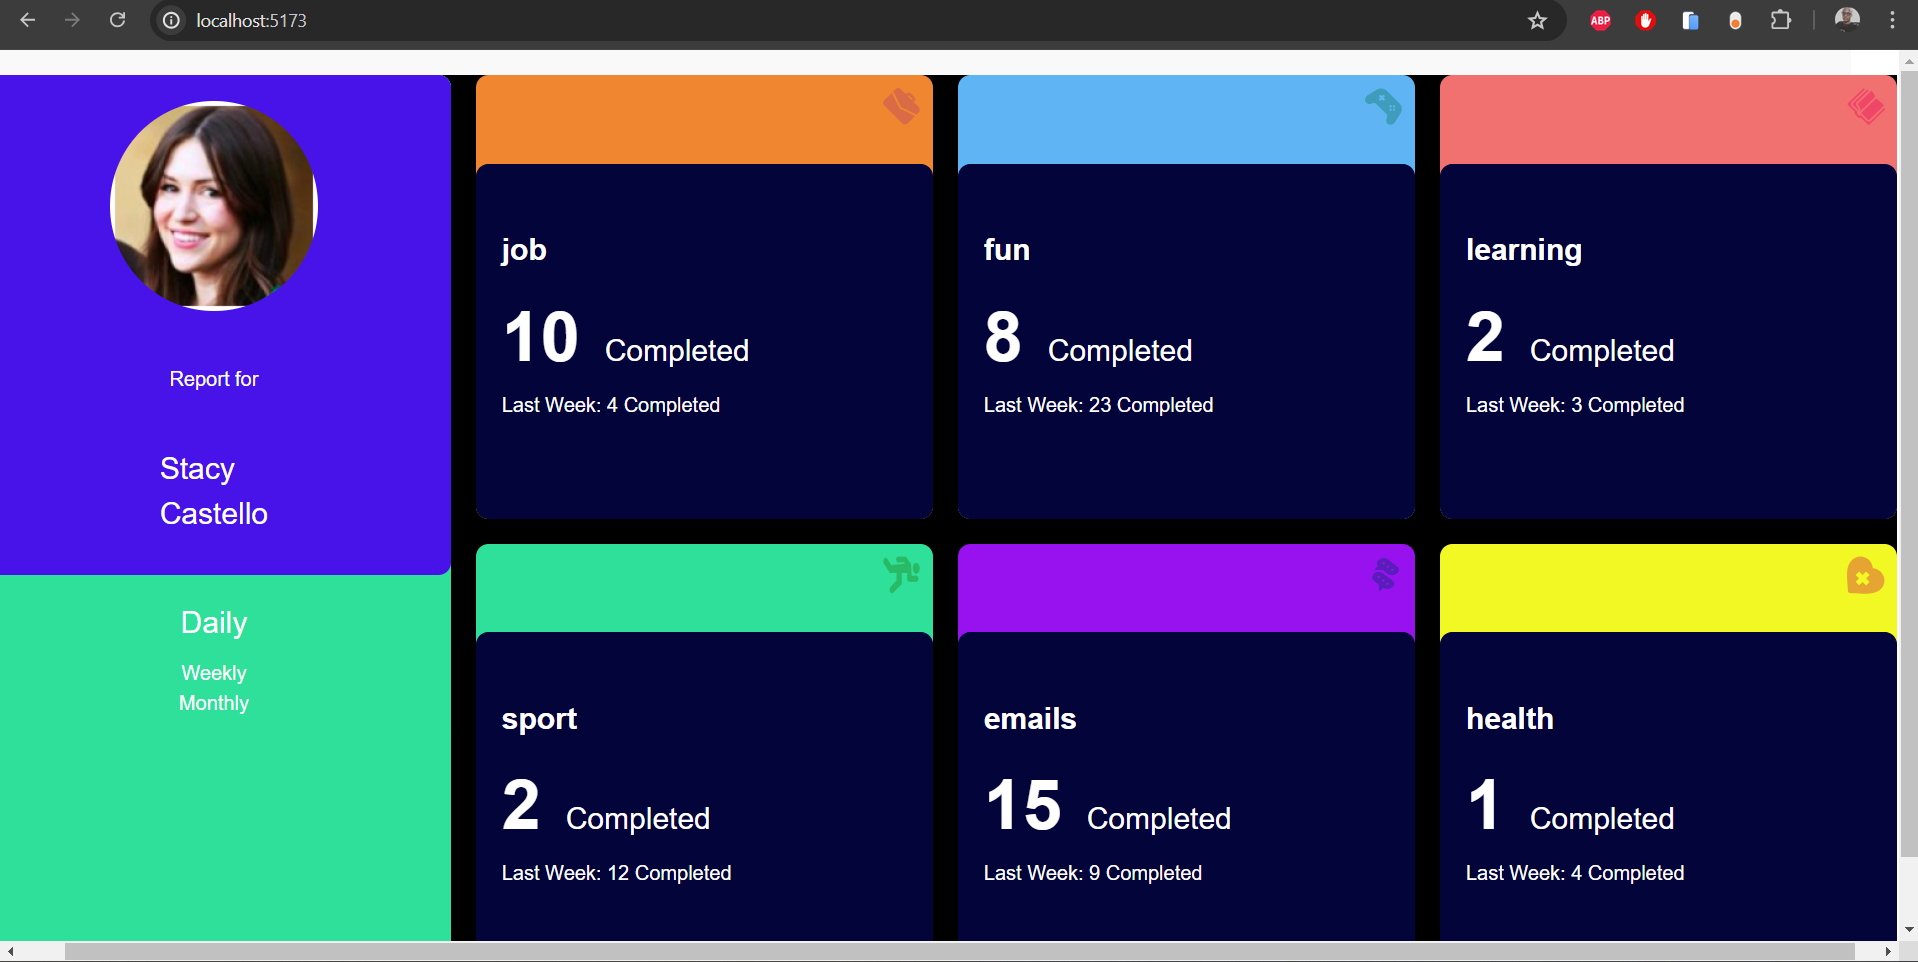
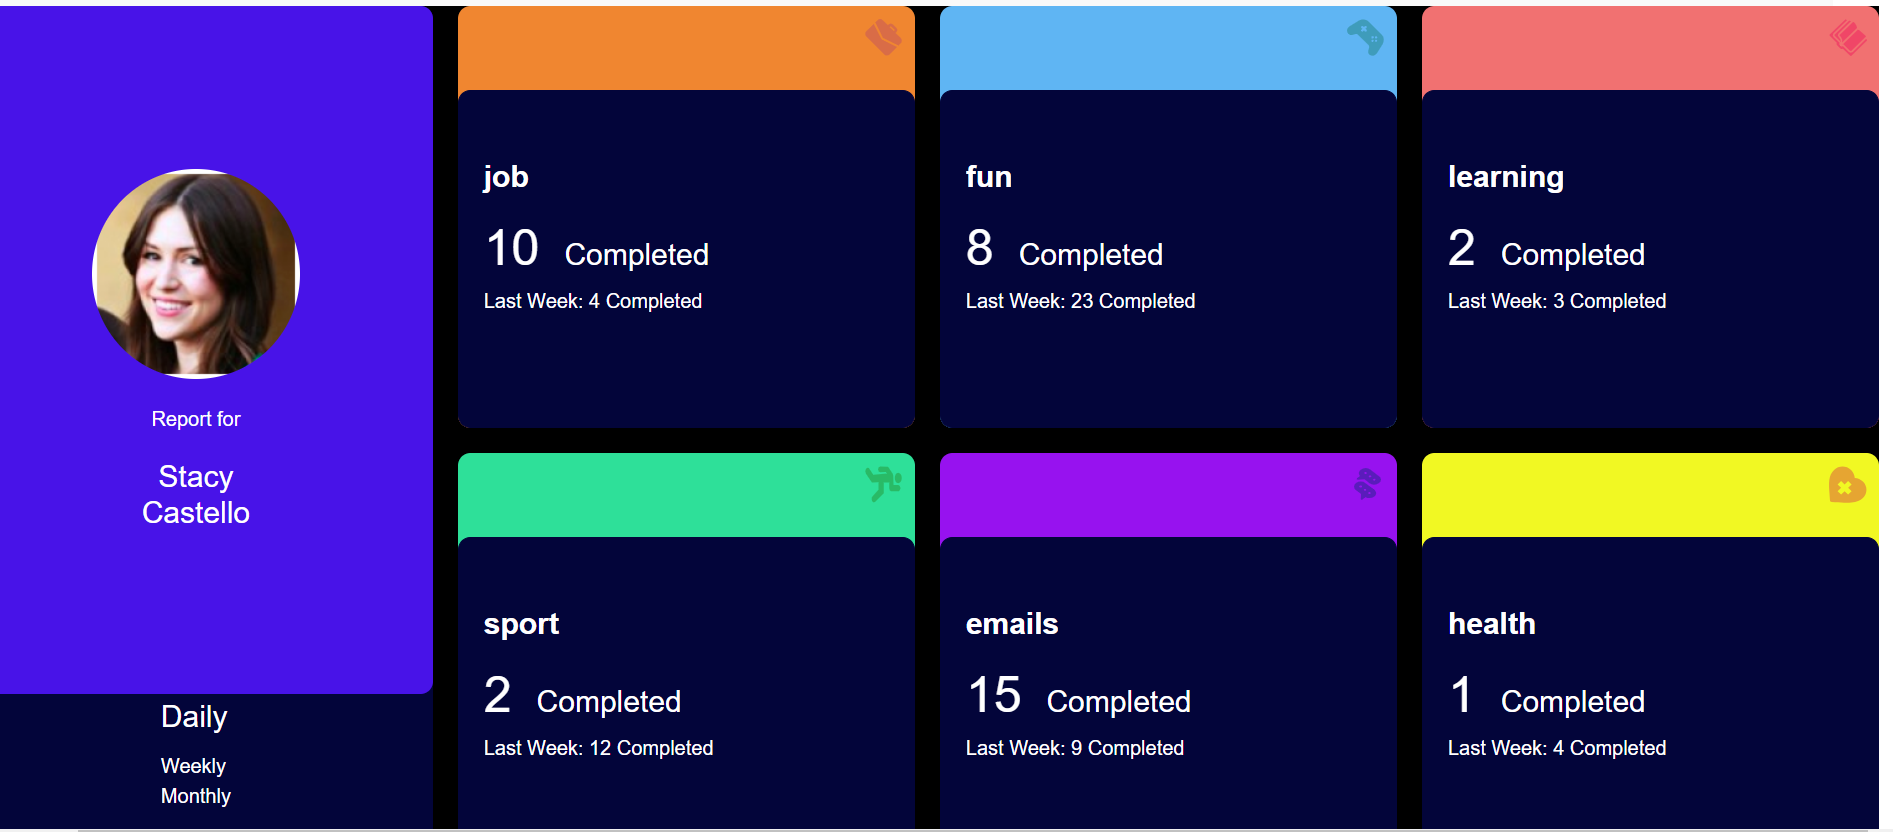
improved designs

diff --git a/miladfm-frontend-solution/src/assets/styles/partials/large.scss b/miladfm-frontend-solution/src/assets/styles/partials/large.scss
@@ -15,27 +15,43 @@
   display: grid;
   grid-template-rows: auto 1fr;
   height: 100vh;
-  background-color: $lightgreen-color;
+  background-color: $box-color;
   border-radius: 10px;
 }
 
 .profile-component {
-  display: grid;
+  display: flex;
+  flex-direction: column;
   align-items: center;
-  justify-items: center;
+  justify-content: center;
   width: 100%;
-  height: 400px;
+  height: 550px;
   background-color: $beige-color;
   border-radius: 10px;
+  text-align: center;
+}
+
+.profile-component img {
+  margin-bottom: 20px;
+  padding: 0;
+}
+
+.profile-component p {
+  margin-bottom: 20px;
+  padding: 0;
+}
+
+.profile-component h2 {
+  margin: 0;
+  padding: 0;
+  line-height: 1.2;
 }
 
 .profile-info {
-  padding: 20px;
-  text-align: center;
   color: $color-white;
-  background-color: $lightgreen-color;
-  display: flex;
-  flex-direction: column;
+  display: grid;
+  grid-template-rows: 1fr;
+  align-items: center;
   justify-content: center;
 }
 
@@ -87,3 +103,11 @@
   border-radius: 50%;
 }
 
+.span-data_weekly {
+  font-size: 2.5em;
+}
+
+.span-element {
+  margin-left: 20px;
+  font-size: 1.5em;
+}

diff --git a/miladfm-frontend-solution/src/components/BoxComponent/Box.component.tsx b/miladfm-frontend-solution/src/components/BoxComponent/Box.component.tsx
@@ -31,11 +31,11 @@ const BoxComponent: React.FC<BoxComponentProps> = ({ timeFrameData }) => {
             {/* <p>Daily: {tData.timeframes.daily.current}hrs (Previous: {tData.timeframes.daily.previous}hrs)</p> */}
             <p>
               {" "}
-              <span style={{ fontSize: "3.5em", fontWeight: "bolder" }}>
+              <span className="span-data_weekly">
                 {" "}
                 {tData.timeframes.weekly.current}
               </span>
-              <span style={{ marginLeft: "20px", fontSize:'1.5em' }}>Completed</span> <p />
+              <span className="span-element">Completed</span> <p />
             </p>
             <p>Last Week: {tData.timeframes.weekly.previous} Completed</p>
 

diff --git a/miladfm-frontend-solution/src/App.tsx b/miladfm-frontend-solution/src/App.tsx
@@ -11,7 +11,7 @@ function App() {
     <div className="app">
       {/* Side navigation */}
       <div className="side-bar">
-        <WrapperComponent colorType='lightgreen' imageType={images.someImage}>
+        <WrapperComponent colorType=''>
           <ProfileComponent />
           <div className="profile-info">
             <h2>Daily</h2>

diff --git a/miladfm-frontend-solution/src/assets/styles/partials/small.scss b/miladfm-frontend-solution/src/assets/styles/partials/small.scss
@@ -74,12 +74,18 @@ html {
     }
   
     .wrapper {
-      height: auto;
+      height: 250px;
       margin-bottom: 20px; 
     }
   
     .box {
-      height: auto;
+      height: 80%;
+
+      .span-element {
+        margin-left: 20px;
+        font-size: 1.0em;
+      }
+      
     }
   }
   

diff --git a/miladfm-frontend-solution/src/components/ProfileComponent/Profile.component.tsx b/miladfm-frontend-solution/src/components/ProfileComponent/Profile.component.tsx
@@ -5,7 +5,8 @@ function Profilecomponent() {
     <div className='profile-component'>
       <img src={images.avatar} alt="profile" className='avatar'  />
       <p>Report for</p>
-      <h2>Stacy <br/> Castello</h2>
+      <h2>Stacy </h2>
+       <h2> Castello</h2>
     </div>
   )
 }
